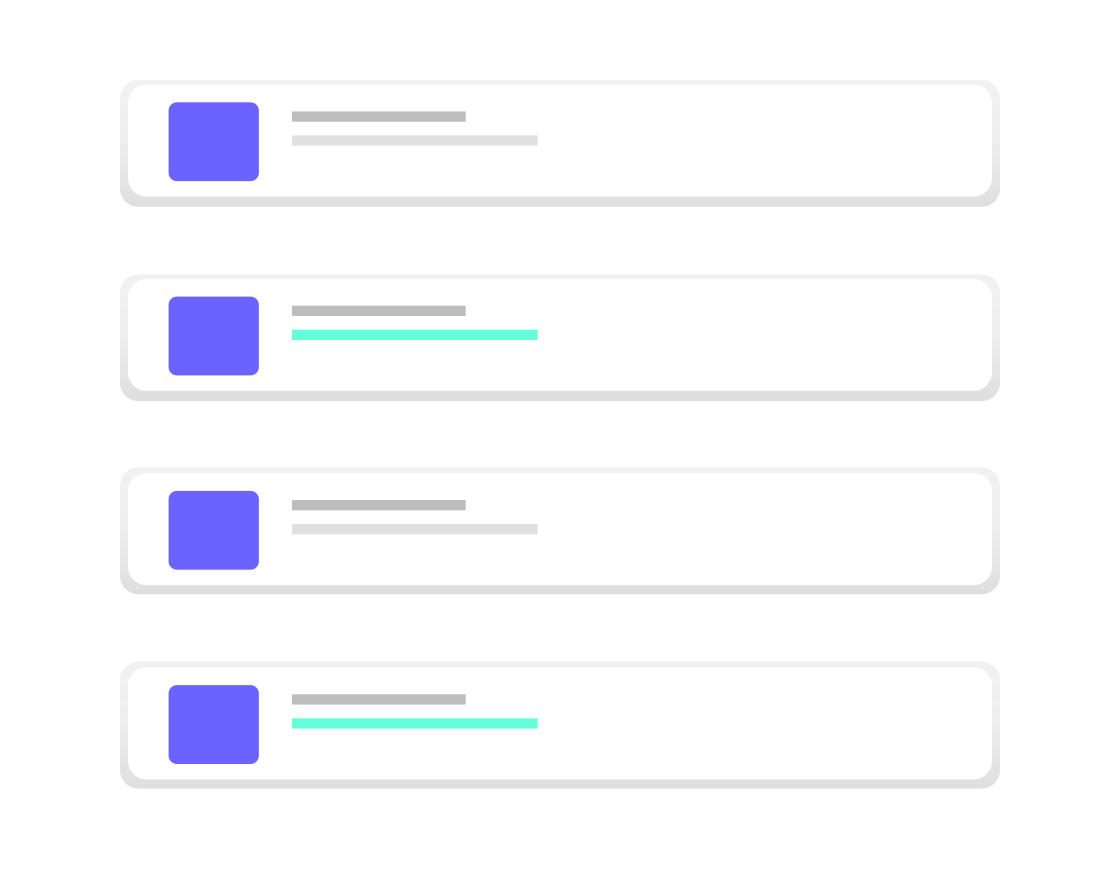
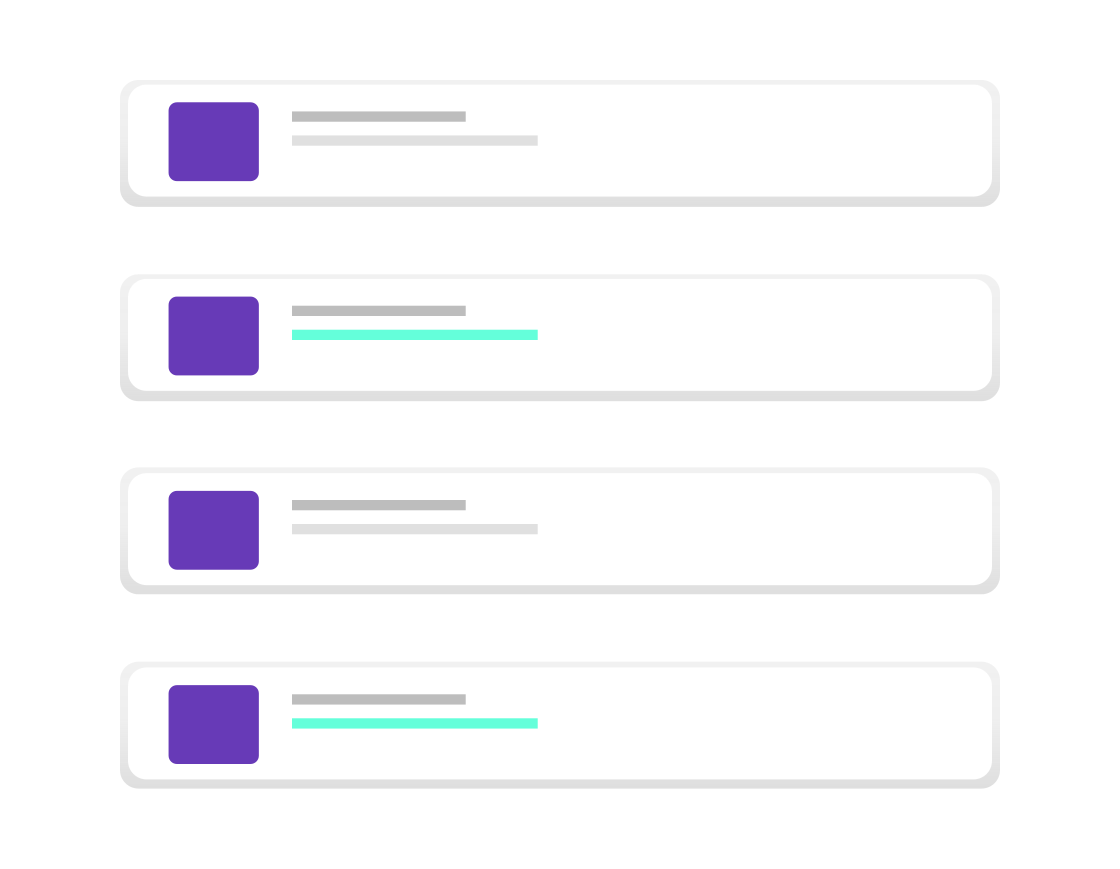
1 binaries uploaded

diff --git a/src/styles.css b/src/styles.css
@@ -3,7 +3,7 @@
 @import url("https://fonts.googleapis.com/css?family=Roboto:300,400,500&display=swap");
 @import url("https://fonts.googleapis.com/icon?family=Material+Icons");
 
-@import "~@angular/material/prebuilt-themes/pink-bluegrey.css";
+@import "~@angular/material/prebuilt-themes/deeppurple-amber.css";
 
 html, body { height: 100%; }
 body { margin: 0; font-family: Roboto, "Helvetica Neue", sans-serif; }

diff --git a/src/app/feed/feed.component.html b/src/app/feed/feed.component.html
@@ -1,3 +1,4 @@
-<p>
-feed works!
-</p>
+<img 
+  src="https://cdn.jsdelivr.net/gh/SiddAjmera/kittygram-oauth@master/src/assets/feed.png" 
+  alt="Feed"
+  class="placeholder-image">

diff --git a/src/app/feed/feed.component.css b/src/app/feed/feed.component.css
@@ -1,0 +1,3 @@
+.placeholder-image {
+  width: 100%
+}
